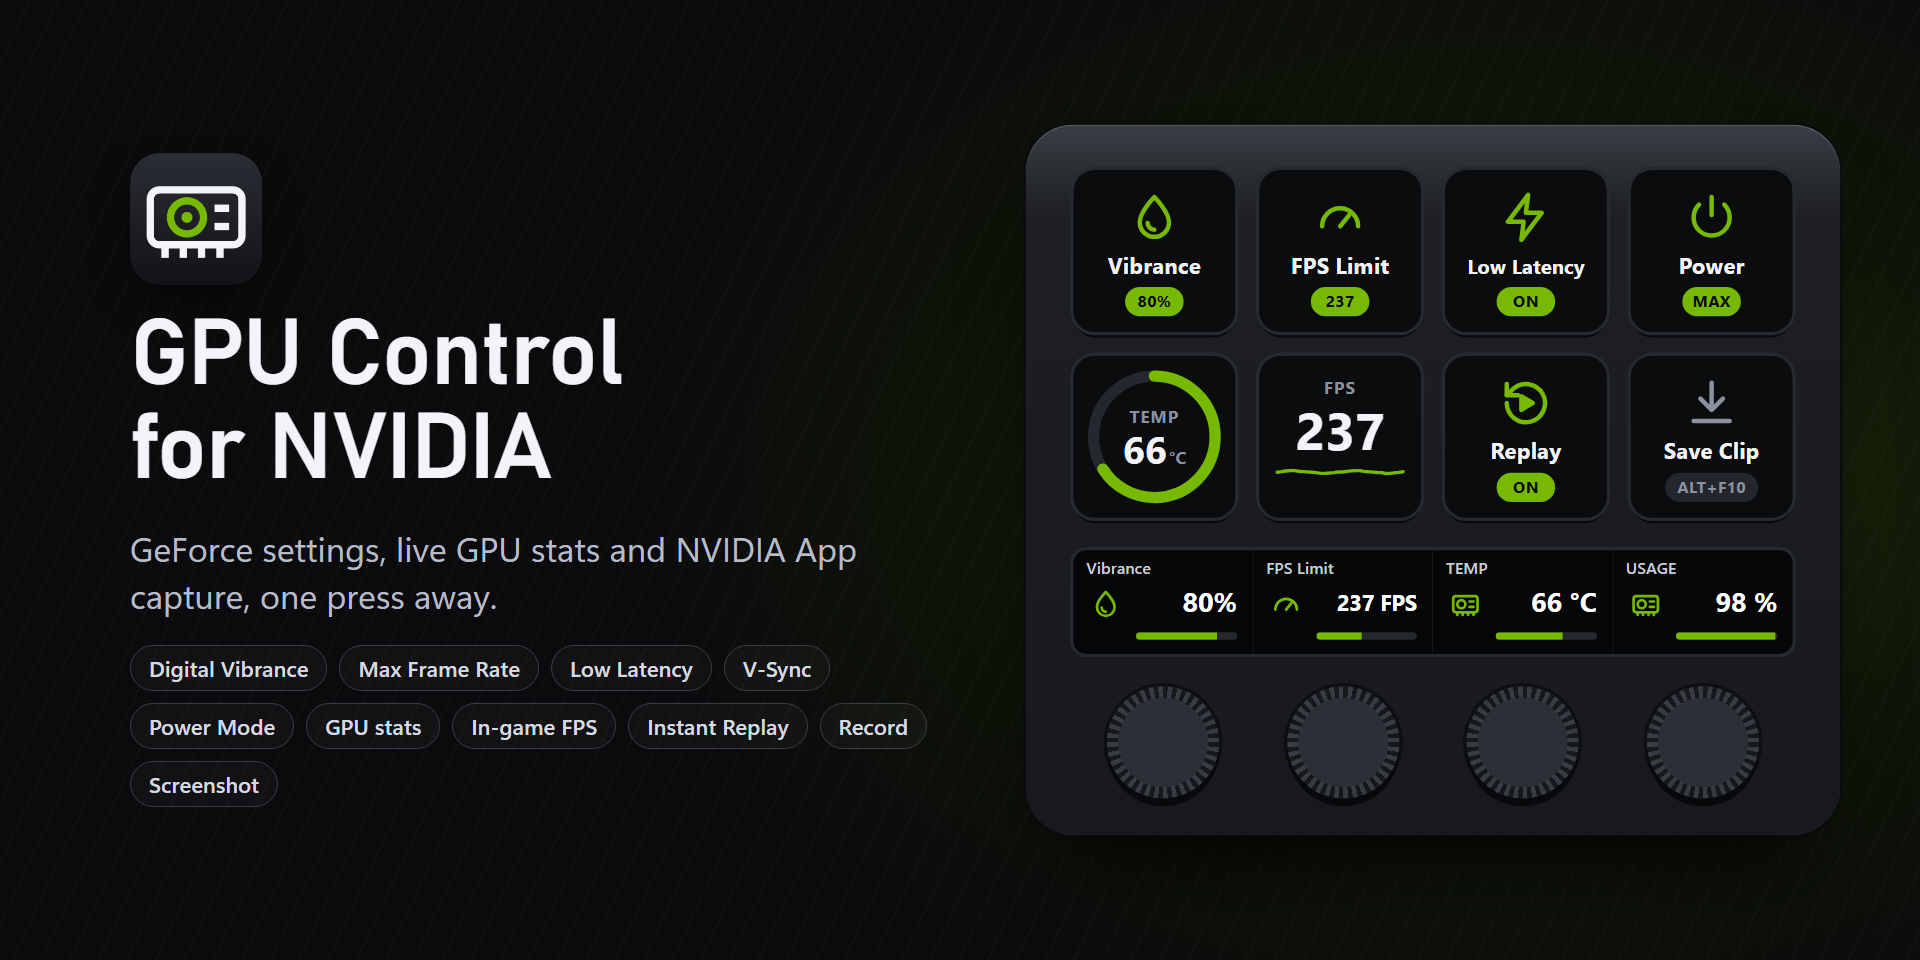
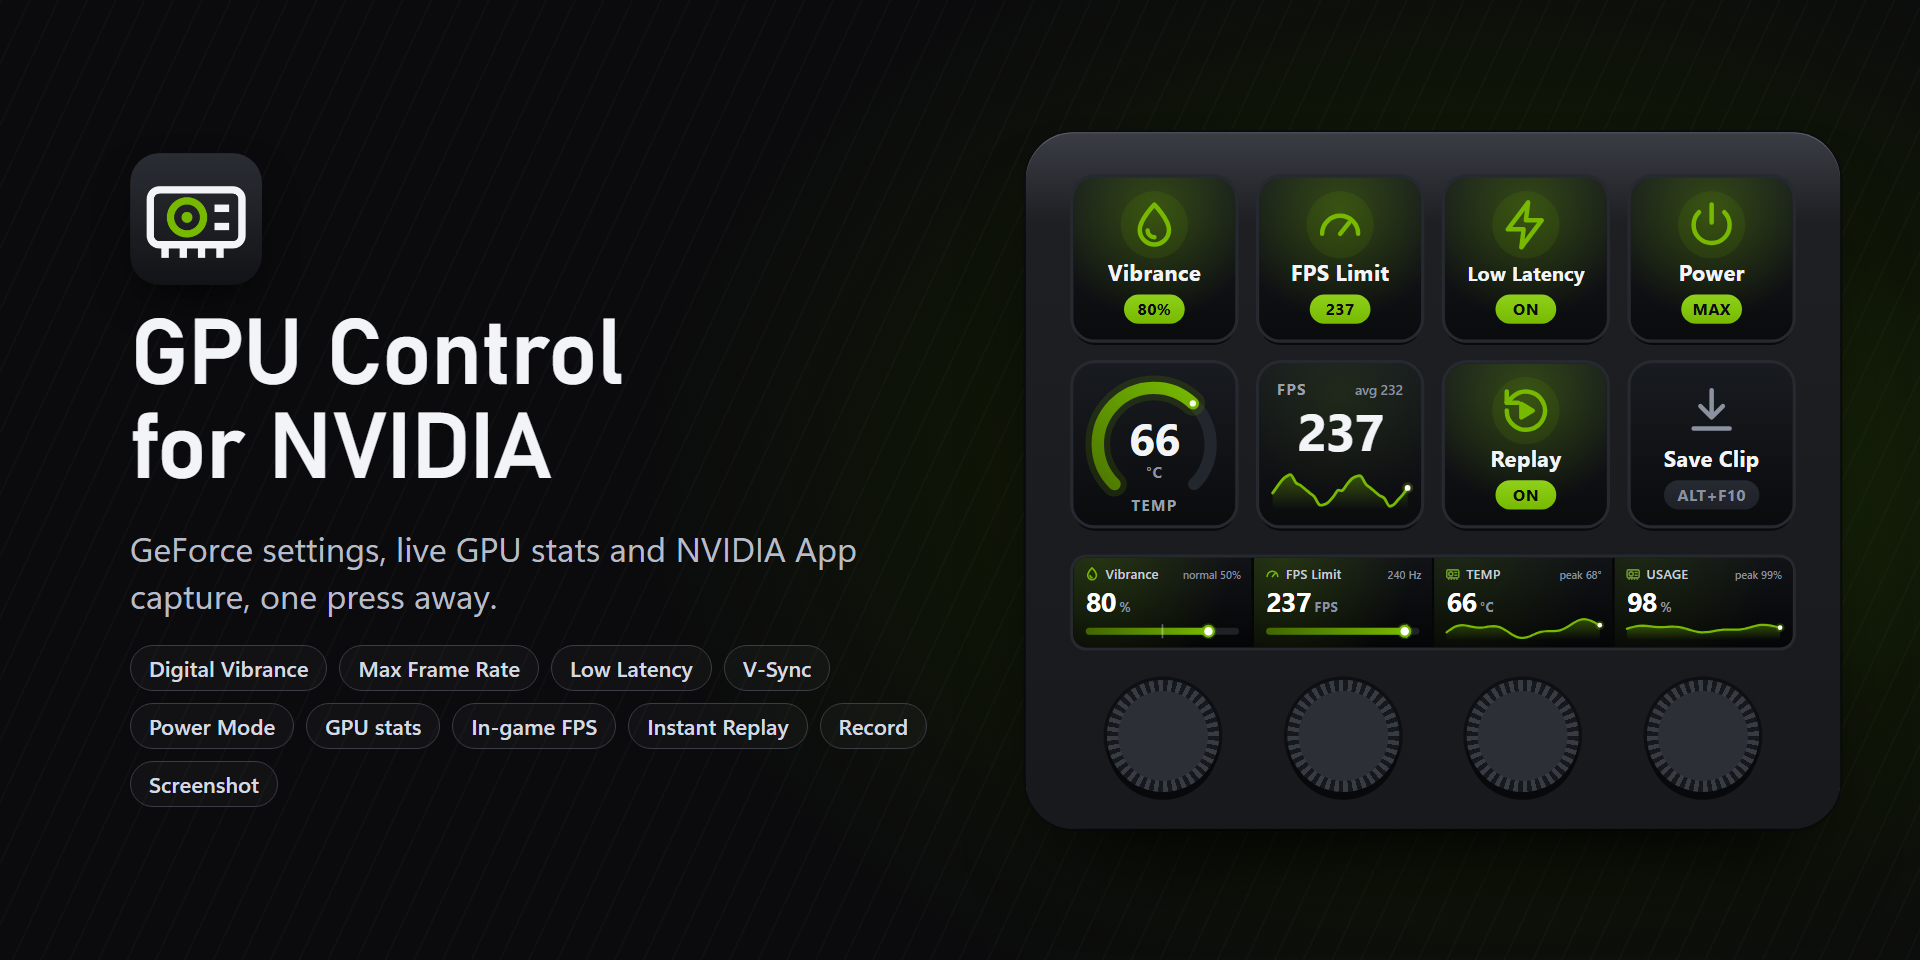
Show the animated keys and touch-strip charts: new images and README

diff --git a/README.md b/README.md
@@ -6,6 +6,14 @@ Change NVIDIA GeForce settings mid-game from your Stream Deck: Digital Vibrance,
 
 Works on every Stream Deck model with keys. On a Stream Deck +, you can also use the dials and the touch strip. No administrator rights needed.
 
+## Made for the Stream Deck display
+- **Smooth animations:** gauges glide to each new value, numbers count up, switches fade between on and off.
+- **Press feedback:** every key press answers with a short ripple, so you know it registered.
+- **Color that means something:** the temperature gauge turns orange above 70 °C and red above 83 °C; the FPS graph turns amber, then red, when your frame rate drops.
+- **Touch strip (Stream Deck +):** every GPU reading on a dial gets a live 40-second chart with its peak; Digital Vibrance and Max Frame Rate get sliders. The strip lights up briefly when you press the dial.
+
+![Live charts on the Stream Deck + touch strip](images/touch-strip.png)
+
 ## Digital Vibrance
 Changes NVIDIA Digital Vibrance (color saturation) of a display.
 - **Dial:** rotate to adjust, press or tap to go back to your normal level
@@ -46,12 +54,12 @@ Shows one GPU reading on a key or on a dial:
 - Core clock, memory clock and fan speed
 
 **Key:** press to show the next reading (or set it to do nothing). **Dial:** rotate or press to switch readings.
-The ring turns orange above 83 °C. Readings your GPU doesn't report are marked *not available* and skipped.
+The gauge glides to each new value and turns orange above 70 °C and red above 83 °C. On a dial, the touch strip shows a 40-second chart of the reading and its peak. Readings your GPU doesn't report are marked *not available* and skipped.
 
 ![All GPU readings](images/metrics.png)
 
 ## FPS
-Shows the frame rate of the game in front with a graph of the last 30 seconds, without an overlay on your screen. Shows *no game* when no game is in front. Press the key to open the NVIDIA performance overlay (or set it to do nothing).
+Shows the frame rate of the game in front with its average and a graph of the last 30 seconds (amber, then red, when the frame rate drops), without an overlay on your screen. Shows *no game* when no game is in front. Press the key to open the NVIDIA performance overlay (or set it to do nothing).
 
 **One-time permission:** Windows only lets apps read game frame rates after a one-time permission (Xbox Game Bar asks for the same). If the key shows *setup*, open its settings and click **Allow FPS reading**, then confirm the Windows prompt. If the FPS still doesn't show, sign out of Windows and back in once.
 
@@ -77,7 +85,7 @@ Settings are changed through NVIDIA's official driver interfaces, the same ones 
 ## Release notes
 
 ### 1.0.0
-- First release: Digital Vibrance on dials and keys for each display; Max Frame Rate on keys and dials; Low Latency Mode, V-Sync and Power Mode keys; Instant Replay (with live state), Save Clip, Record and Screenshot using your NVIDIA App hotkeys; GPU Status (temperature, usage, power, VRAM, core clock, memory clock, fan) on keys and dials; in-game FPS with a graph.
+- First release: animated, color-coded keys and touch-strip charts; Digital Vibrance on dials and keys for each display; Max Frame Rate on keys and dials; Low Latency Mode, V-Sync and Power Mode keys; Instant Replay (with live state), Save Clip, Record and Screenshot using your NVIDIA App hotkeys; GPU Status (temperature, usage, power, VRAM, core clock, memory clock, fan) on keys and dials; in-game FPS with a graph.
 
 ## Support
 Open an issue on this page.
